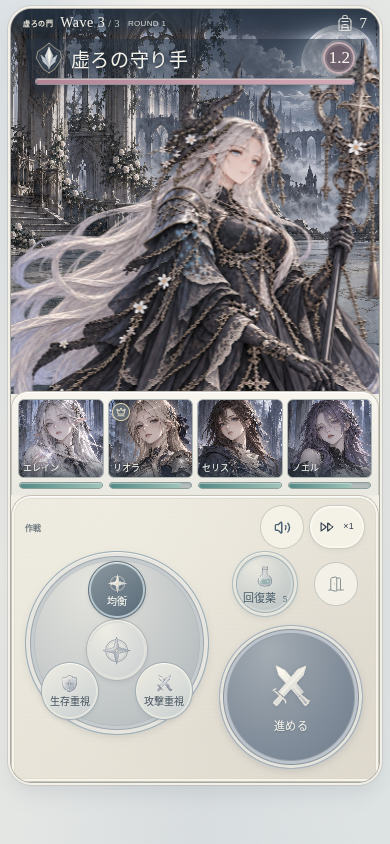
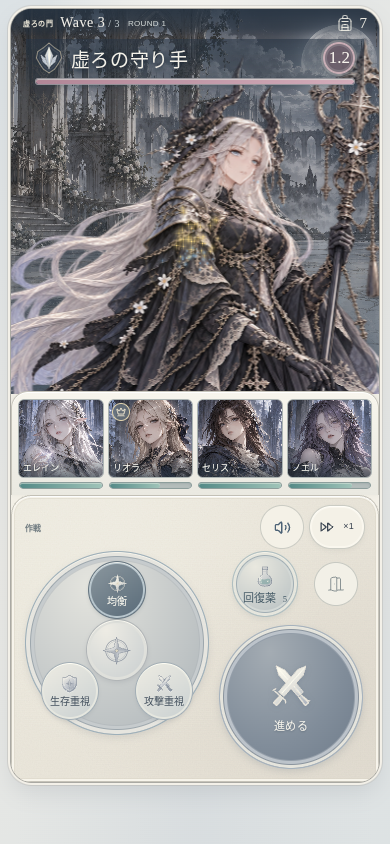
feat: refine foreground lighting and reserve enemy depth

diff --git a/src/ui/MenuEmblem.tsx b/src/ui/MenuEmblem.tsx
@@ -26,8 +26,12 @@ export function MenuEmblem({ kind }: { kind: MenuEmblemKind }) {
     {kind === 'party' && <>
       <path d="M27 80c9-4 12-11 12-20 0-8-5-12-5-24 0-17 12-28 28-28 18 0 29 12 28 28-1 7-4 11-8 16-3 5-4 10-2 16 1 5 5 9 10 13-16 0-28 2-39 4-9 2-18 1-24-5Z" fill={metal} />
       <path d="M64 17c9-1 17 6 18 15l-2 6 7 7c1 1 0 3-2 3l-6 1-1 8c-1 5-5 7-11 7-3 7 0 12 8 16-11 0-22 2-31 4 2-7 9-10 12-17 2-5 1-10-1-15 7-7 11-19 9-35Z" fill={paper} />
+      <path d="M59 13c-15 7-18 21-13 34 5 14 1 24-8 33 15-7 20-18 16-31-5-15-4-25 5-36Z" fill="#d0d1cb" fillOpacity=".18" />
+      <path d="M71 61c-5 3-7 8-6 13l10 6-20 3c5-6 8-12 8-19l8-3Z" fill="#8b9399" fillOpacity=".22" />
       <path d="M61 12c-14 7-16 17-12 33 4 17-3 23-11 32M56 16c-13 10-16 19-12 31 5 16-2 25-8 30M66 13c-9 8-9 18-4 27" stroke="#bdc1c7" strokeWidth="1.25" strokeLinecap="round" />
       <path d="M42 31c-6 13 7 25 0 37-3 6-8 10-13 12m15-2c8-9 13-14 11-24M72 18c6 4 9 9 9 15" stroke="#e1dfd4" strokeOpacity=".6" strokeWidth=".65" strokeLinecap="round" />
+      <path d="M50 18c-11 9-12 19-9 31 3 13-1 24-9 30m21-57c-6 9-5 17-2 25 4 11 1 20-4 26m12-54c-5 8-3 17-1 24m8-31c9 1 17 7 19 14" stroke="#e0dfd6" strokeOpacity=".52" strokeWidth=".7" strokeLinecap="round" />
+      <path d="M67 60c5-1 8-3 9-7m-11 17 7 5m-13 0 9 4" stroke="#8d959b" strokeOpacity=".5" strokeWidth=".65" strokeLinecap="round" />
       <path d="M75 35c2-1 4 0 5 1" stroke="#747e8c" strokeWidth="1" strokeLinecap="round" />
       <path d="M88 79c9-6 13-15 14-26m-2 9 7-5m-10 14 8-3m-14 10 8-1" stroke="#a5aaa6" strokeWidth="1.15" strokeLinecap="round" />
       <path d="M101 60c-5-2-7-5-7-8 5 1 8 3 7 8Zm-5 11c-5 0-8-3-9-6 6-1 9 2 9 6Z" fill="#a5aaa6" />
@@ -35,10 +39,13 @@ export function MenuEmblem({ kind }: { kind: MenuEmblemKind }) {
     {kind === 'monster' && <>
       <path d="M79 8c4 9 0 18-8 21 12 0 19-13 13-23-2-3-4-5-7-6l2 8Z" fill="#9ca3af" />
       <path d="M34 78c6-7 7-14 6-23-5-2-9-5-11-9 6 0 10-2 13-6-1-8 0-18 4-29 6 6 11 13 13 20 7-3 14-3 20-2 4 7 10 13 17 16l10 3c3 1 4 5 1 7-4 3-11 4-18 5-2 6-5 11-10 14l6 10c-8-2-14-3-21-2l-8 5-7-7-15-2Z" fill={metal} />
+      <path d="M47 39c9-8 20-12 32-10-9 2-17 6-20 12-3 6-7 10-13 13 4-6 4-10 1-15Zm-3 18c8 0 13-3 18-8-3 14-9 23-19 28 4-7 4-13 1-20Z" fill="#c9cecf" fillOpacity=".2" />
+      <path d="M64 56c8 1 14 1 23-2-5 8-9 14-15 17 3-6 0-11-8-15Z" fill="#3e4a5d" fillOpacity=".2" />
       <path d="M46 20c0 7 0 13 2 17l7-3-9-14Z" fill={paper} />
-      <path d="M60 45c7-6 15-8 21-5l-5 9-16-4Z" fill="#d9dde0" />
+      <path d="M63 44c6-5 12-6 18-4l-6 7-12-3Z" fill="#d9dde0" />
       <path d="m70 44 7-1-2 4-5-3Z" fill="#697485" />
-      <path d="M91 48c3 0 7 1 10 2l-4 4-6-6Z" fill="#e6e5dc" />
+      <path d="M98 48c3 0 6 1 9 2-1 3-3 4-6 4l-3-6Z" fill="#495567" />
+      <path d="M77 52c6 1 11 0 18-2m-7 8c6 0 11-1 16-4M50 39l5-3m4 1 5-3m-20 9 5-3m13 13-4 7m7-5-4 9m8-5-2 6m7 4 3 4m-27-4-4 5" stroke="#d5d7d3" strokeOpacity=".66" strokeWidth=".75" strokeLinecap="round" />
       <path d="M48 58c5 0 10-2 13-5-2 9-7 15-15 19m14-12c2 8 1 14-4 19m14-15c5 5 6 10 4 15" stroke="#bcc3ca" strokeWidth="1.1" strokeLinecap="round" />
       <path d="M29 83C16 76 10 64 10 49m1 8-6-5m9 16-7-3m13 12-8-2m79 8c12-7 18-19 18-34m-1 9 6-5m-9 15 7-3m-13 12 8-2" stroke="#a1aaa5" strokeWidth="1.25" strokeLinecap="round" />
       <path d="m17 73-2-8 7 5m75 4 2-8-7 5" fill="#a1aaa5" />

diff --git a/src/ui/battle.css b/src/ui/battle.css
@@ -33,8 +33,8 @@
 .battle-layout .bag-counter > svg { width: 18px; height: 18px; }
 .battle-layout .bag-counter small { display: none; }
 .battle-layout .battle-scene { min-height: 0; height: 424px; border: 0; border-radius: 0; overflow: hidden; background: #465361; }
-.battle-layout .scene-background { opacity: 1; object-position: 50% 43%; filter: saturate(.7); }
-.battle-layout .scene-mist { background: linear-gradient(0deg,#dee3e258,transparent 28%),linear-gradient(180deg,#17273712,transparent 35%); }
+.battle-layout .scene-background { opacity: 1; object-position: 50% 43%; filter: saturate(.56) contrast(.78) brightness(.88); }
+.battle-layout .scene-mist { background: linear-gradient(0deg,#c5d0dca6,#b4c4d43d 24%,transparent 57%),linear-gradient(180deg,#17273718,transparent 38%); }
 .battle-layout .enemy-line {
   position: absolute;
   inset: 76px 15px 10px;

diff --git a/src/ui/EnemyCarousel.tsx b/src/ui/EnemyCarousel.tsx
@@ -171,8 +171,10 @@ export function EnemyCarousel({ units, event, reducedMotion = false }: EnemyCaro
           '--orbit-x': `${Math.sin(theta) * 120}px`,
           '--orbit-y': `${(1 - depth) * -140}px`,
           '--orbit-scale': 0.3 + depth * 0.7,
-          '--orbit-alpha': visible ? (unit.hp <= 0 ? 0.24 : 0.3 + depth * 0.7) : 0,
+          '--orbit-alpha': visible ? (unit.hp <= 0 ? 0.24 : 0.72 + depth * 0.28) : 0,
           '--orbit-blur': `${(1 - depth) * 1.2}px`,
+          '--orbit-light': 0.72 + depth * 0.28,
+          '--orbit-saturation': 0.55 + depth * 0.45,
           zIndex: Math.round(depth * 10) + 1,
         } as CSSProperties;
         const def = characterById(unit.characterId);

diff --git a/src/ui/enemy-carousel.css b/src/ui/enemy-carousel.css
@@ -27,7 +27,7 @@
   transform-origin: center bottom;
   transform: translateX(calc(-50% + var(--orbit-x))) translateY(var(--orbit-y)) scale(var(--orbit-scale));
   opacity: var(--orbit-alpha);
-  filter: blur(var(--orbit-blur));
+  filter: blur(var(--orbit-blur)) brightness(var(--orbit-light,1)) saturate(var(--orbit-saturation,1));
   will-change: transform;
   pointer-events: none;
 }

diff --git a/docs/implementation.md b/docs/implementation.md
@@ -123,3 +123,6 @@ PortraitArtはホームのリーダー顔とパーティの画像描画を共通
 
 
 虚ろの守り手は銀髪・角冠・鍵杖の意匠を維持し、顔と鎧の線が明瞭な黒喪服の透過原画へ更新しています。原画の実寸1024×1535を台帳で保持し、表示のための無条件リサイズは行いません。敵情報の上段を薄くし、ボスの紋章・祈願石・ゴールドには共通Sigilsの彫刻風図案を使用します。ホームのプロフィールと残高は、イラストの頭を隠さない幅で拡大しています。
+
+
+立ち絵と城背景の明暗を分離し、背景の白い柱・窓が銀髪や顔と競合しないよう調整します。控え敵は奥行きに応じた陰影・低彩度と軽いぼかしで後方に置き、過度な透過による残像感を抑えます。前景の明度・彩度・不透明度は元のままです。回転は引き続き表示だけの状態で、敵数・HP・行動順やセーブを変更しません。メニューの女性・狼の紋章は内部の陰影と細彫りを調整し、外形や飾り・文章を増やしません。
